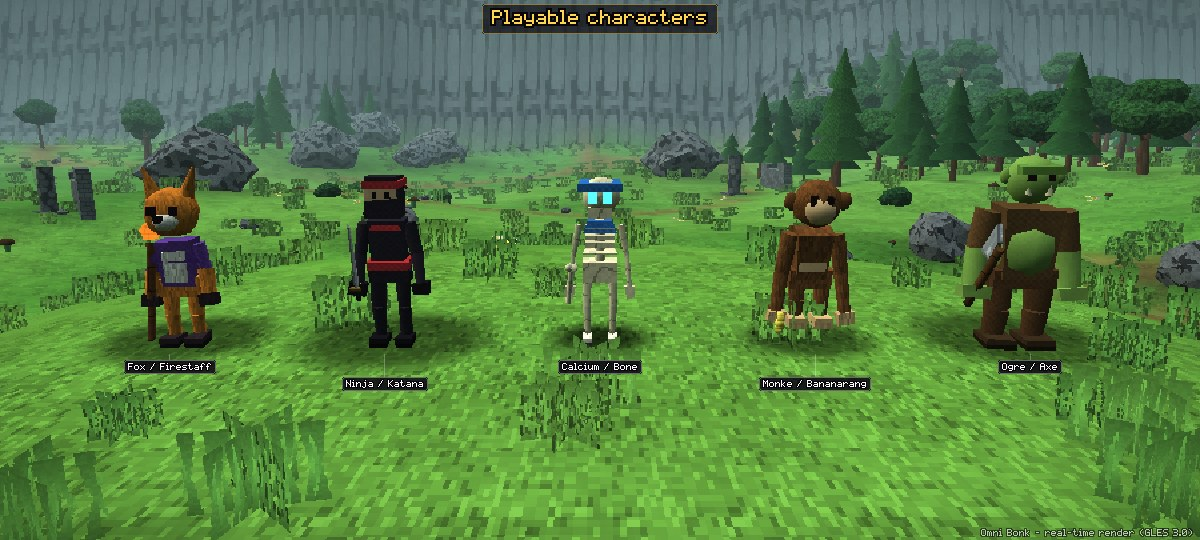
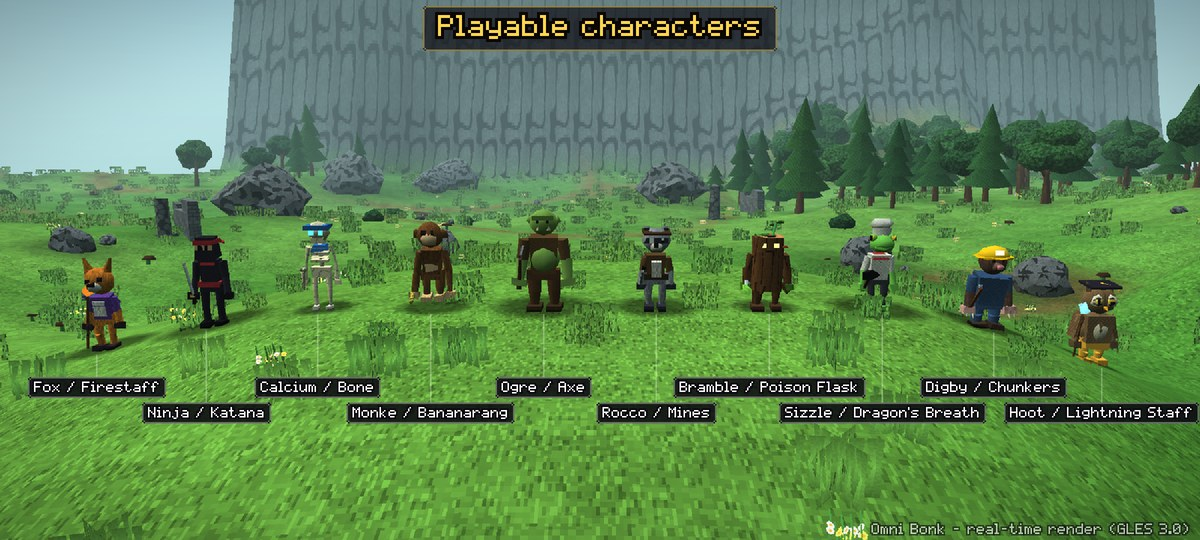
Docs: 10 characters, QoL changes and the optional music pack
README: character table with the five new original characters, the
compact labels/alerts in the QoL list, a section on the local-only
music pack (slots, script, where the folder goes on R36S and Android),
stb_vorbis in the technology/folder tables, new harness scenarios.
Port README: 10 characters and the optional omnibonk/music folder.
docs/art_06_characters.jpg regenerated with the harness (art scenario).

diff --git a/README.md b/README.md
@@ -18,7 +18,7 @@ A 3D survival roguelite for Android and Linux handhelds (R36S / PortMaster), mad
 |---|---|
 | Maps | Forest, Desert and Graveyard, each in 3 tiers with its own palette (Green/Deep/Cursed Forest, Crusty/Twilight/Blood Desert, Graveyard/Haunted/Cursed Graveyard) |
 | Enemies | 43 in total, with elites, 6 minibosses, 8 bosses (including the Ghost King of the Tier 3 final arena) and the final swarm |
-| Characters | Fox (Firestaff), Ninja (Katana), Calcium (Bone), Monke (Bananarang), Ogre (Axe), each with a passive |
+| Characters | 10, each with a passive: Fox (Firestaff), Ninja (Katana), Calcium (Bone), Monke (Bananarang), Ogre (Axe), plus five original characters: Rocco the raccoon tinkerer (Mines), Bramble the walking stump (Poison Flask), Sizzle the gecko cook (Dragon's Breath), Digby the mole miner (Chunkers) and Hoot the owl scholar (Lightning Staff) |
 | Weapons / Tomes / Items | 30 weapons, 23 tomes, 86 items across Common, Rare, Epic and Legendary rarities |
 | Interactables | Chests (normal and free golden), Charge Shrines (upgrade towers), Greed, Cursed, Challenge, Moai, Shady Guy, Microwave, Shrine of Succ, pots, pumpkins, silver pots, tumbleweeds, crypt keys, portals |
 | Powerups | Shield, Clock, Gold x2, Rage, Magnet and Bomb |
@@ -33,7 +33,7 @@ A 3D survival roguelite for Android and Linux handhelds (R36S / PortMaster), mad
 
 ## Quality of life, inspired by community mods
 
-Adjustable stage time · DPS meter and damage table at the end of the run (StatHUD) · chest/shrine/Shady/Moai counters and next chest cost (SpawnTracker) · instant chest opening · auto-bhop · stepped animation at 6/8/12 fps or smooth · effects opacity · render scale · enemy cap · full map · FOV and camera distance · left-handed mode · UI scale · vibration · FPS cap · banish/reroll/skip upgrades · Auto quality mode (adapts render scale, particles, view distance and enemy cap to hold the target frame rate).
+Adjustable stage time · DPS meter and damage table at the end of the run (StatHUD) · one-row chest/shrine/Shady counters with the next chest cost (SpawnTracker) · compact interaction tags over chests and shrines (price shown as a coin, red when you cannot afford it) · slim top-of-screen alerts for swarms, minibosses and other combat events, keeping the centre of the screen clear (big banners only for stage, boss and final-swarm milestones) · instant chest opening · auto-bhop · stepped animation at 6/8/12 fps or smooth · effects opacity · render scale · enemy cap · full map · FOV and camera distance · left-handed mode · UI scale · vibration · FPS cap · banish/reroll/skip upgrades · Auto quality mode (adapts render scale, particles, view distance and enemy cap to hold the target frame rate).
 
 ## Controls (touch)
 
@@ -67,11 +67,40 @@ The UI adapts to the 640×480 4:3 screen and all navigation is focus-based. The 
 
 The binary only depends on `libSDL2-2.0.so.0` and glibc 2.27 or newer; the OpenGL ES functions are loaded at runtime through SDL. Tested in CI with the real aarch64 binary running under QEMU on Debian 13 (the base of dArkOS).
 
+## Optional music pack (local only, never distributed)
+
+The game ships with its procedural chiptune. If you own other music and want it on **your own device**, the game can stream
+OGG Vorbis files from a folder next to it instead; nothing of the kind is in this repository, in CI or in the releases,
+and `.gitignore` blocks audio files.
+
+| Slot | File | Plays on |
+|---|---|---|
+| 0 | `menu.ogg` | title, menus and the background demo |
+| 1 | `forest.ogg` | Forest |
+| 2 | `desert.ogg` | Desert |
+| 3 | `graveyard.ogg` | Graveyard |
+| 4 | `boss.ogg` | while a boss is alive |
+| 5 | `final.ogg` | Tier 3 final arena (falls back to `boss.ogg`) |
+
+Any missing file keeps the chiptune for that slot. Tracks loop and cross-fade like the chiptune; volume follows the Music setting.
+
+```bash
+python3 scripts/build_music_pack.py --out music --menu calm.flac --forest a.mp3 --desert b.ogg --graveyard c.ogg --boss d.ogg --final e.ogg
+```
+
+The script trims silence, normalizes loudness (EBU R128, -14 LUFS) so the music sits under the sound effects, and writes 48 kHz OGG
+(`--mono` halves the decoding work on the R36S). Copy the `music` folder to:
+
+- **R36S / PortMaster:** `ports/omnibonk/music/` (or start the binary with `--music DIR`);
+- **Android:** `Android/data/com.blackcocada.omnibonk/files/music/` (created on first launch; USB file transfer or `adb push`).
+
+The log (`omnibonk/log.txt` / logcat) lists the tracks found and counts decoder underruns.
+
 ## Technology
 
 - C++17 with a custom engine, OpenGL ES 3.0, `NativeActivity`, AAudio, no Gradle and no third-party engine.
 - Instanced rendering, baked flip-book animation at 12 fps, PS1-style vertex snapping, 64×64 textures with nearest filtering, exponential fog, terrain-following decals, render scale with nearest upscaling.
-- Procedural audio: synthesized effects and a chiptune soundtrack per map.
+- Procedural audio: synthesized effects and a chiptune soundtrack per map; an optional, local OGG music pack can replace it (see below), decoded with [stb_vorbis](https://github.com/nothings/stb) (public domain) on a worker thread.
 - `src/main_desktop.cpp`: headless harness (Mesa EGL surfaceless) that renders screenshots, art sheets and bot-driven balance simulations.
 
 | Folder | Contents |
@@ -84,6 +113,8 @@ The binary only depends on `libSDL2-2.0.so.0` and glibc 2.27 or newer; the OpenG
 | `scripts/build_apk.sh` | APK build: NDK/CMake → aapt2 → javac/d8 → zipalign → apksigner |
 | `scripts/emulator_smoke.sh` | CI emulator test (install, launch, screenshots and logcat) |
 | `scripts/check_lang.py` | sanity check of the translation tables |
+| `scripts/build_music_pack.py` | builds an optional local music pack from audio files you own (contains no tracks) |
+| `src/third_party/` | `stb_vorbis.c` v1.23 (public domain / MIT) |
 | `.github/workflows/android.yml` | CI: APK build, artifact, emulator test, release on `v*` tags |
 | `.github/workflows/r36s.yml` | CI: R36S package build, release and QEMU test |
 
@@ -107,6 +138,8 @@ cmake -S . -B build-desktop -G Ninja && ninja -C build-desktop
 ./build-desktop/omnibonk_desktop --scenario art  --out shots --size 2400x1080
 ./build-desktop/omnibonk_desktop --scenario game --out shots --size 2400x1080
 ./build-desktop/omnibonk_desktop --scenario balance --map 0 --char 1 --minutes 15
+./build-desktop/omnibonk_desktop --scenario qol --out shots --size 640x480 --handheld   # labels, counters, alerts, overlays
+./build-desktop/omnibonk_desktop --scenario audio --out shots --music music              # offline mix of every music slot
 ```
 
 Device requirements: Android 8.0 (API 26) or newer, with OpenGL ES 3.0.

diff --git a/ports/omnibonk/README.md b/ports/omnibonk/README.md
@@ -13,7 +13,7 @@ A 3D low-poly roguelite survivor. You are dropped into a map, your attacks fire 
 while you run, jump and slide. Level up, pick weapons, tomes and items, open chests, fight bosses and escape through the portal
 before the Final Swarm gets you.
 
-- 5 characters, 3 maps (Forest, Desert, Graveyard) with 3 tiers each
+- 10 characters, 3 maps (Forest, Desert, Graveyard) with 3 tiers each
 - 43 enemies and bosses, 30 weapons, 23 tomes, 86 items, shrines, shops and upgrade towers
 - Adjustable time per stage (default **15 minutes**; the original uses 10), optional Final Swarm, DPS meter, chest counter, auto bunny hop
 - 6 languages: English (default), Portuguese (BR), Spanish, French, Russian, German (Settings > Game > Language)
@@ -84,6 +84,12 @@ by itself, so you never have to dig through the menus:
 
 To go back to the full-quality settings, turn Auto quality off and set the values you want in Settings > Graphics (or delete
 `omnibonk/conf/omnibonk_save.txt`). You can also show the FPS counter there, or cap the frame rate at 30 for steadier pacing.
+
+## Optional music folder
+
+The package only contains the procedural chiptune. If you put your own OGG Vorbis files in `omnibonk/music/`
+(`menu.ogg`, `forest.ogg`, `desert.ogg`, `graveyard.ogg`, `boss.ogg`, `final.ogg`), the game streams them instead; any missing
+file keeps the chiptune. `scripts/build_music_pack.py` in the source repository prepares them (48 kHz, normalized loudness).
 
 ## Troubleshooting
 
